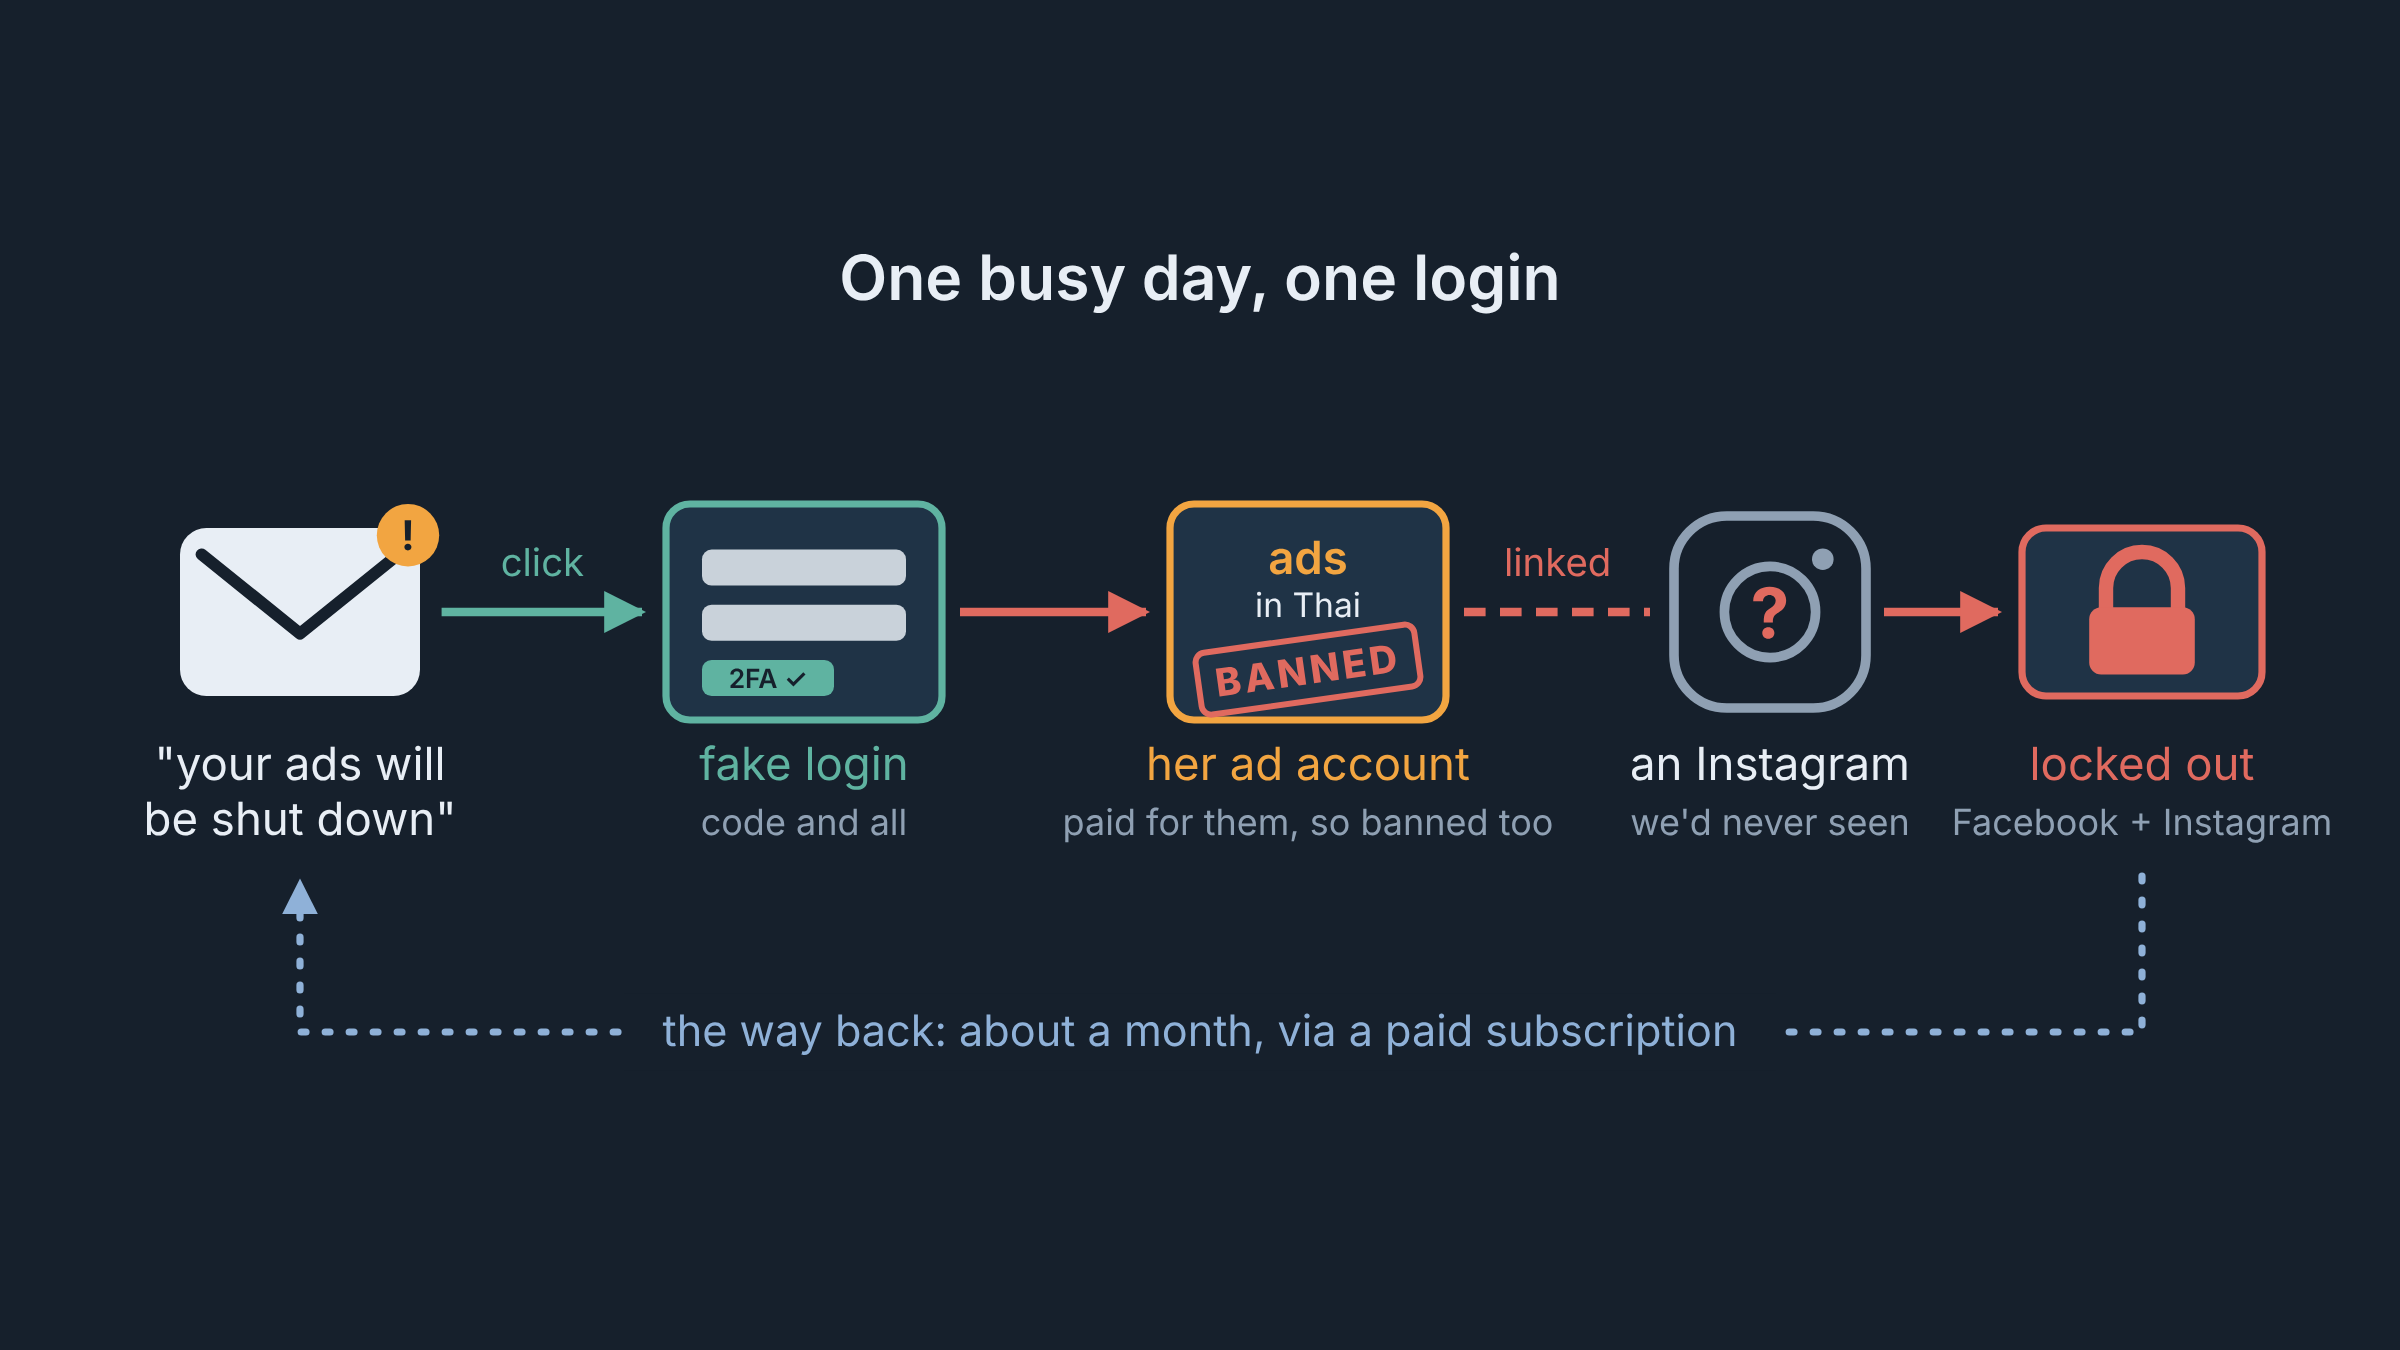
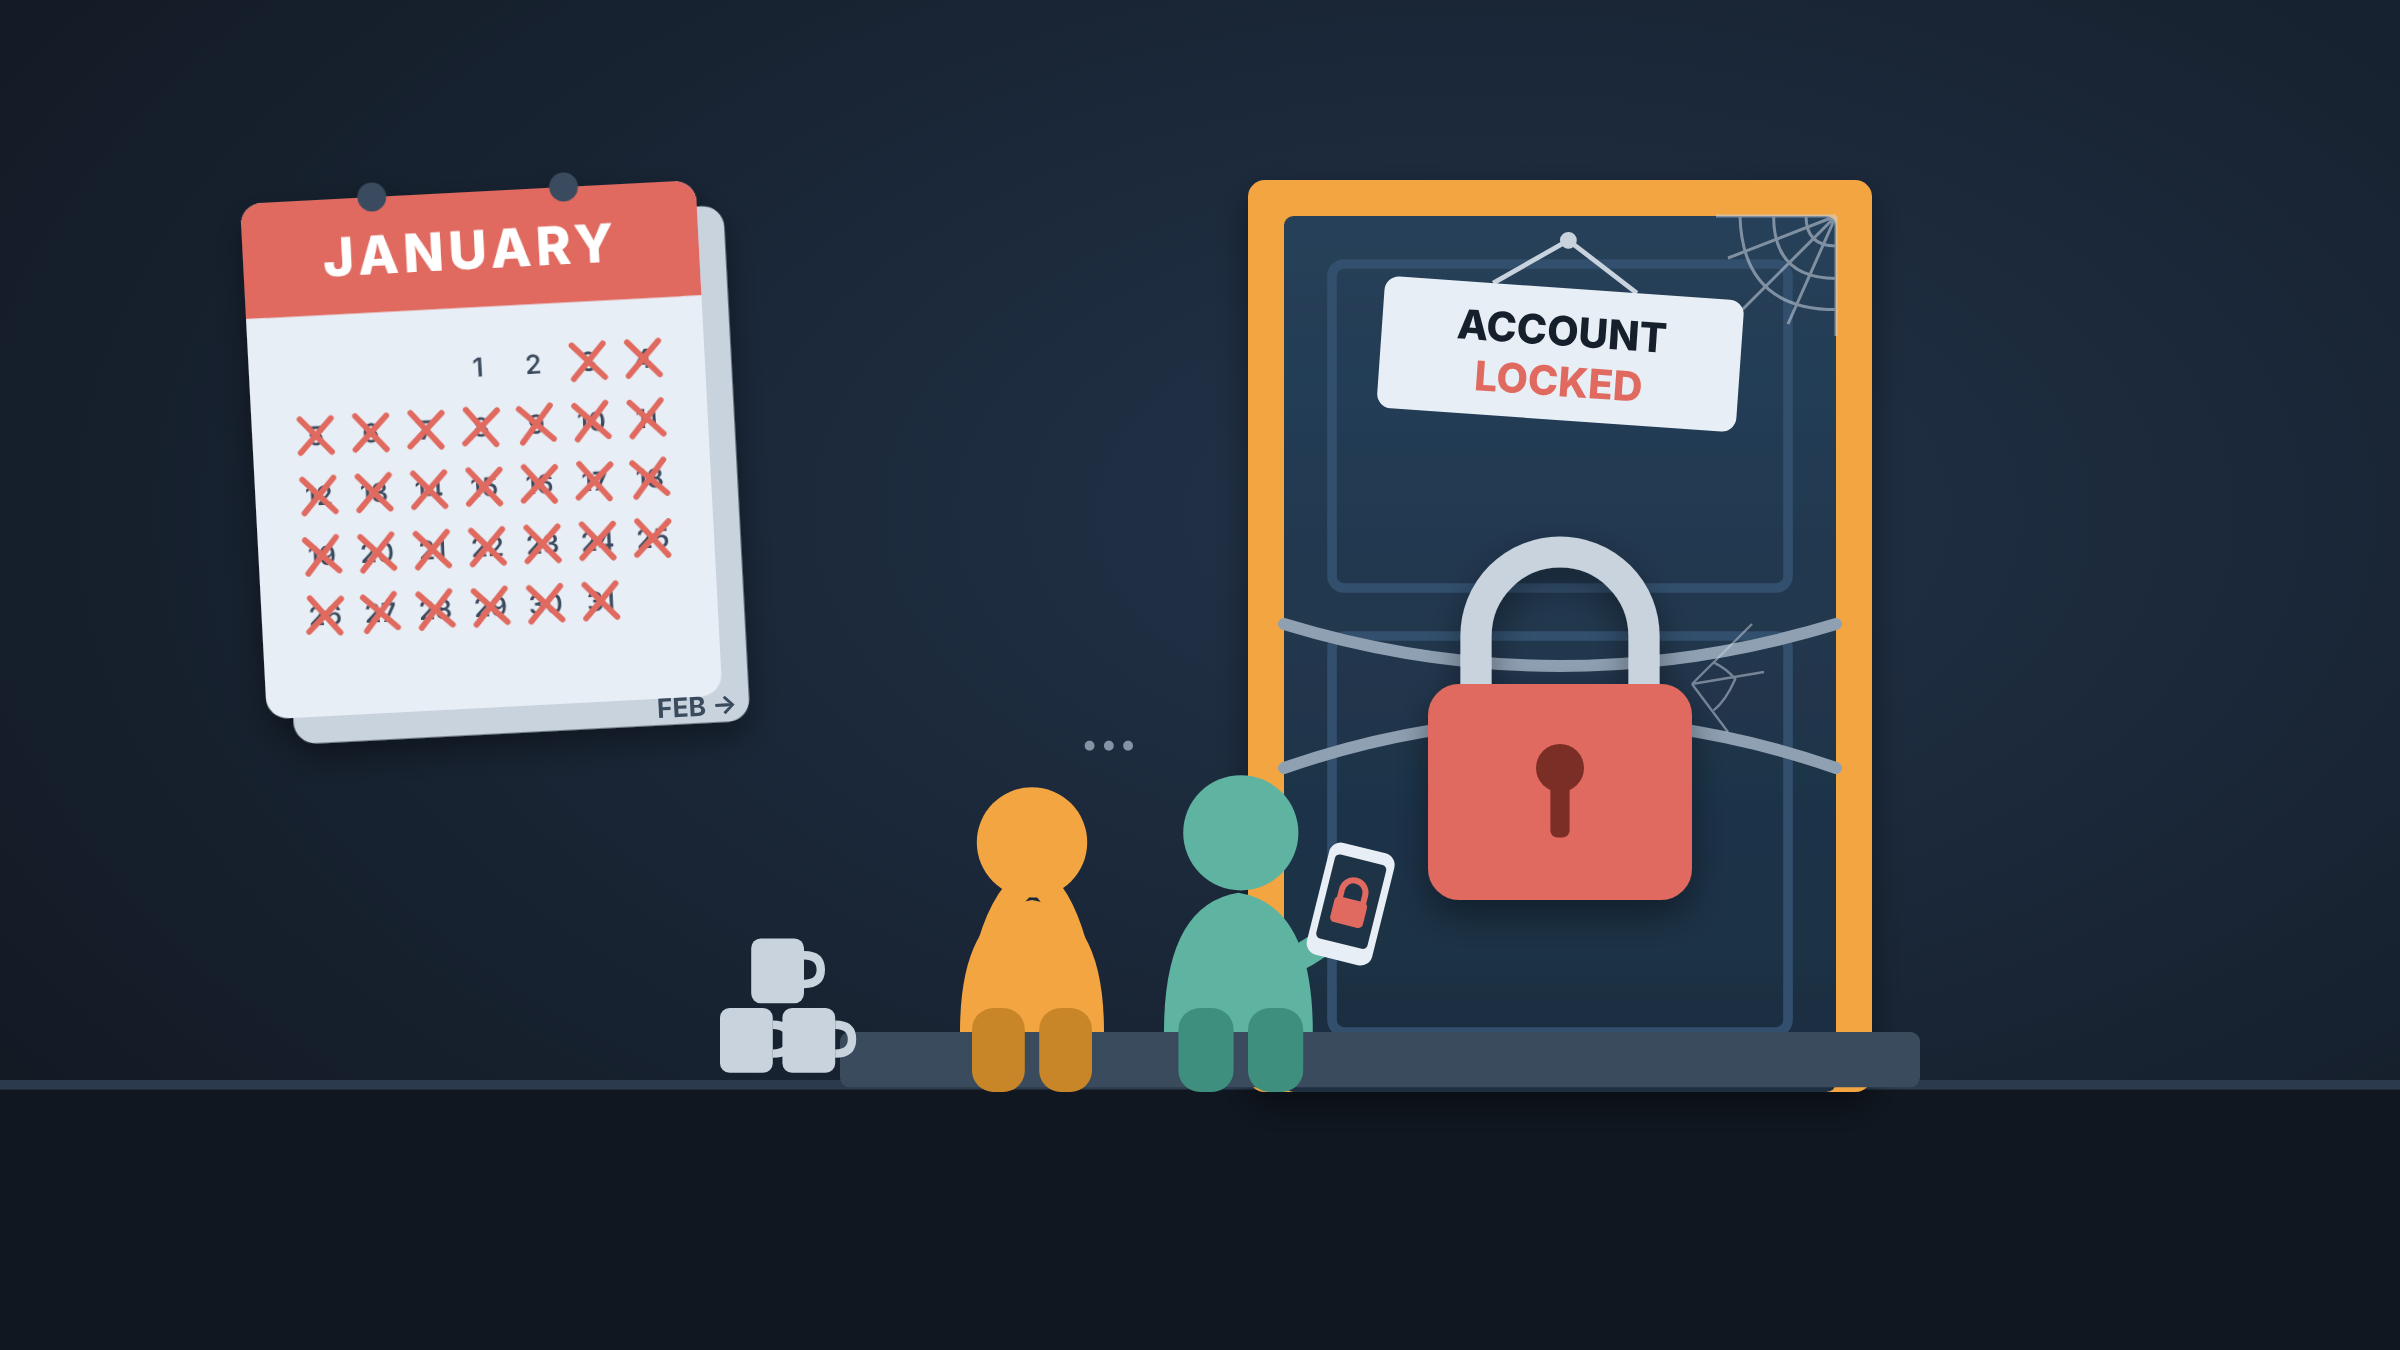
Replace illustration: locked out, not a diagram
Claude-Session: https://claude.ai/code/session_01SSn5KbPdhiHJicjSJ9nuHg

diff --git a/content/posts/the-day-we-got-phished/index.md b/content/posts/the-day-we-got-phished/index.md
@@ -4,7 +4,7 @@ draft = false
 title = "The day we got phished"
 +++
 
-![Diagram: a phishing email leads to a fake login page where the two-factor code is entered too. The attackers run ads in Thai from her ad account, which gets banned, and is linked to an unknown Instagram account, locking her out of Facebook and Instagram. A dotted line back to the start reads: the way back, about a month, via a paid subscription](the-day-we-got-phished.png)
+![Illustration: two people sit on a doorstep in front of a chained door with a big padlock and an "Account locked" sign, cobwebs in the corner, a stack of coffee mugs beside them, and a wall calendar where almost every day of January is crossed out](the-day-we-got-phished.png)
 
 I worked with security. Lena and I still got phished. Properly, all the way in.
 
